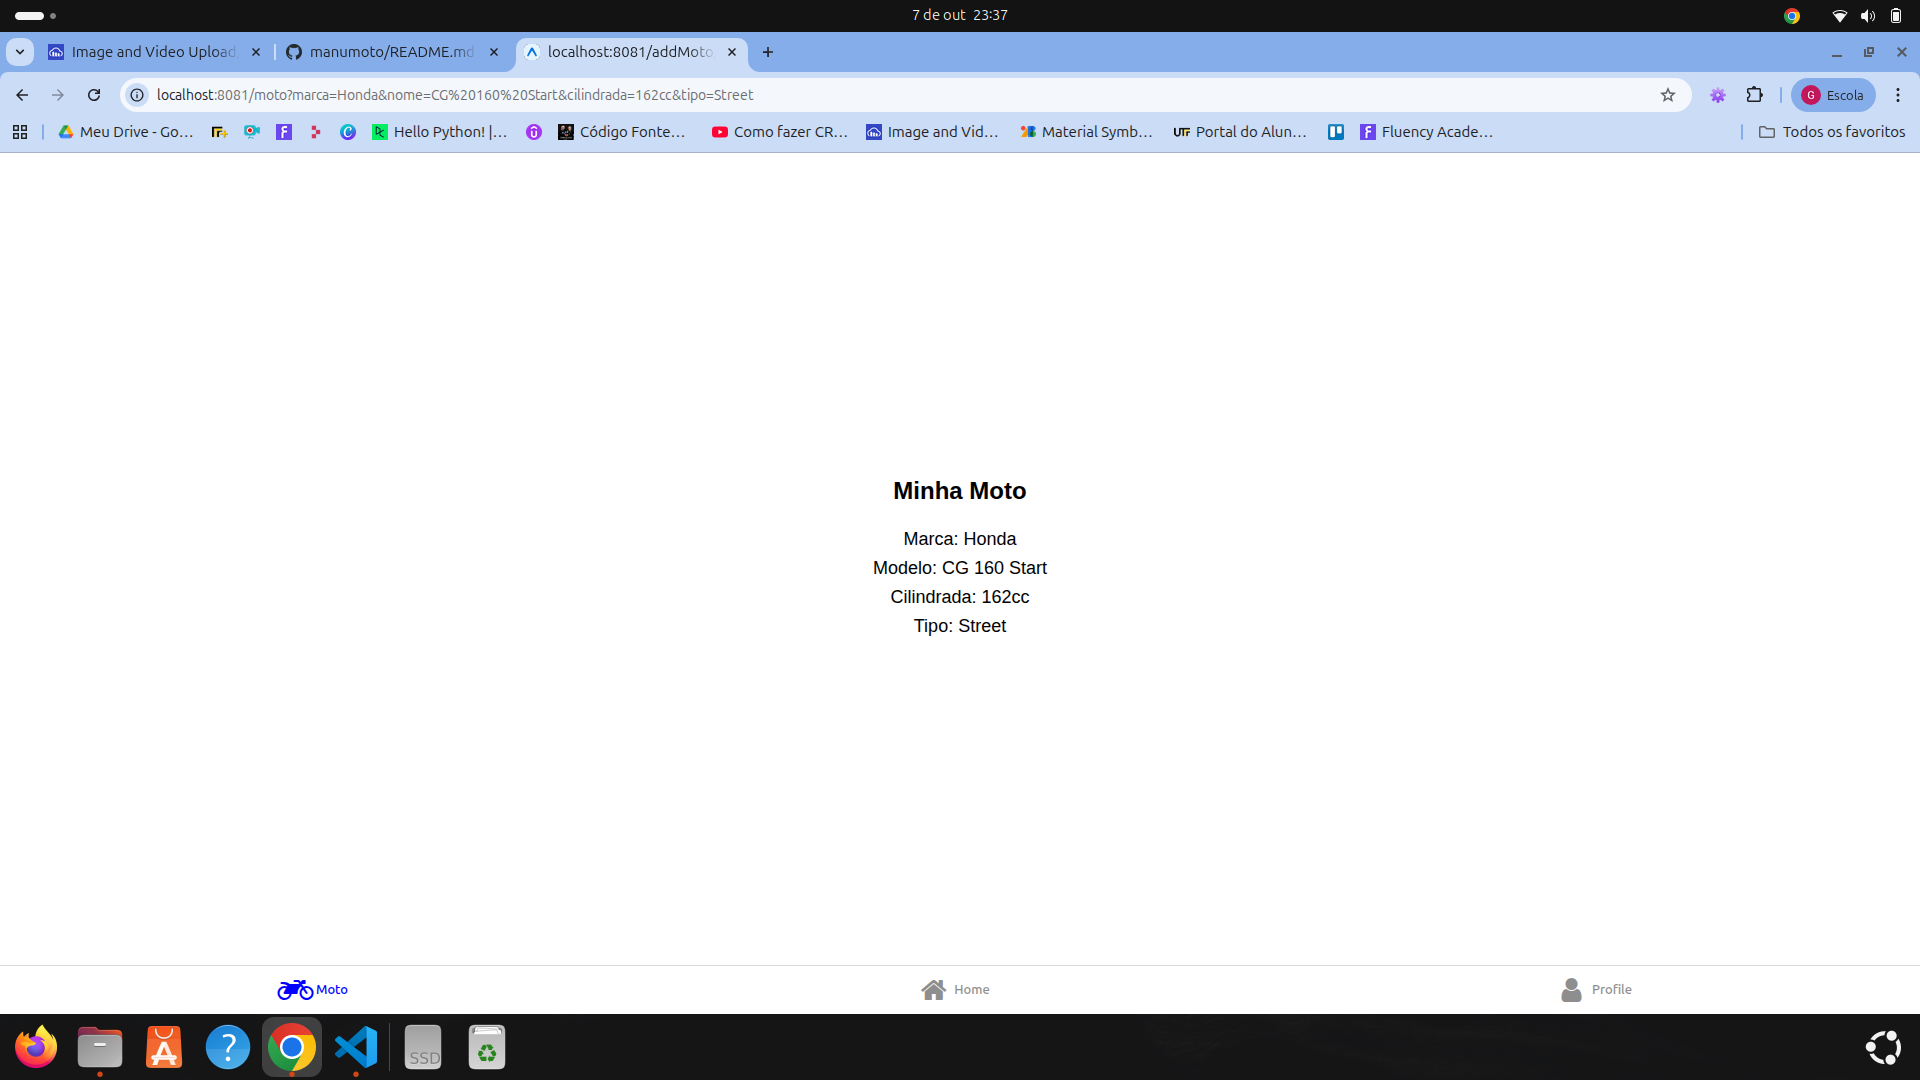
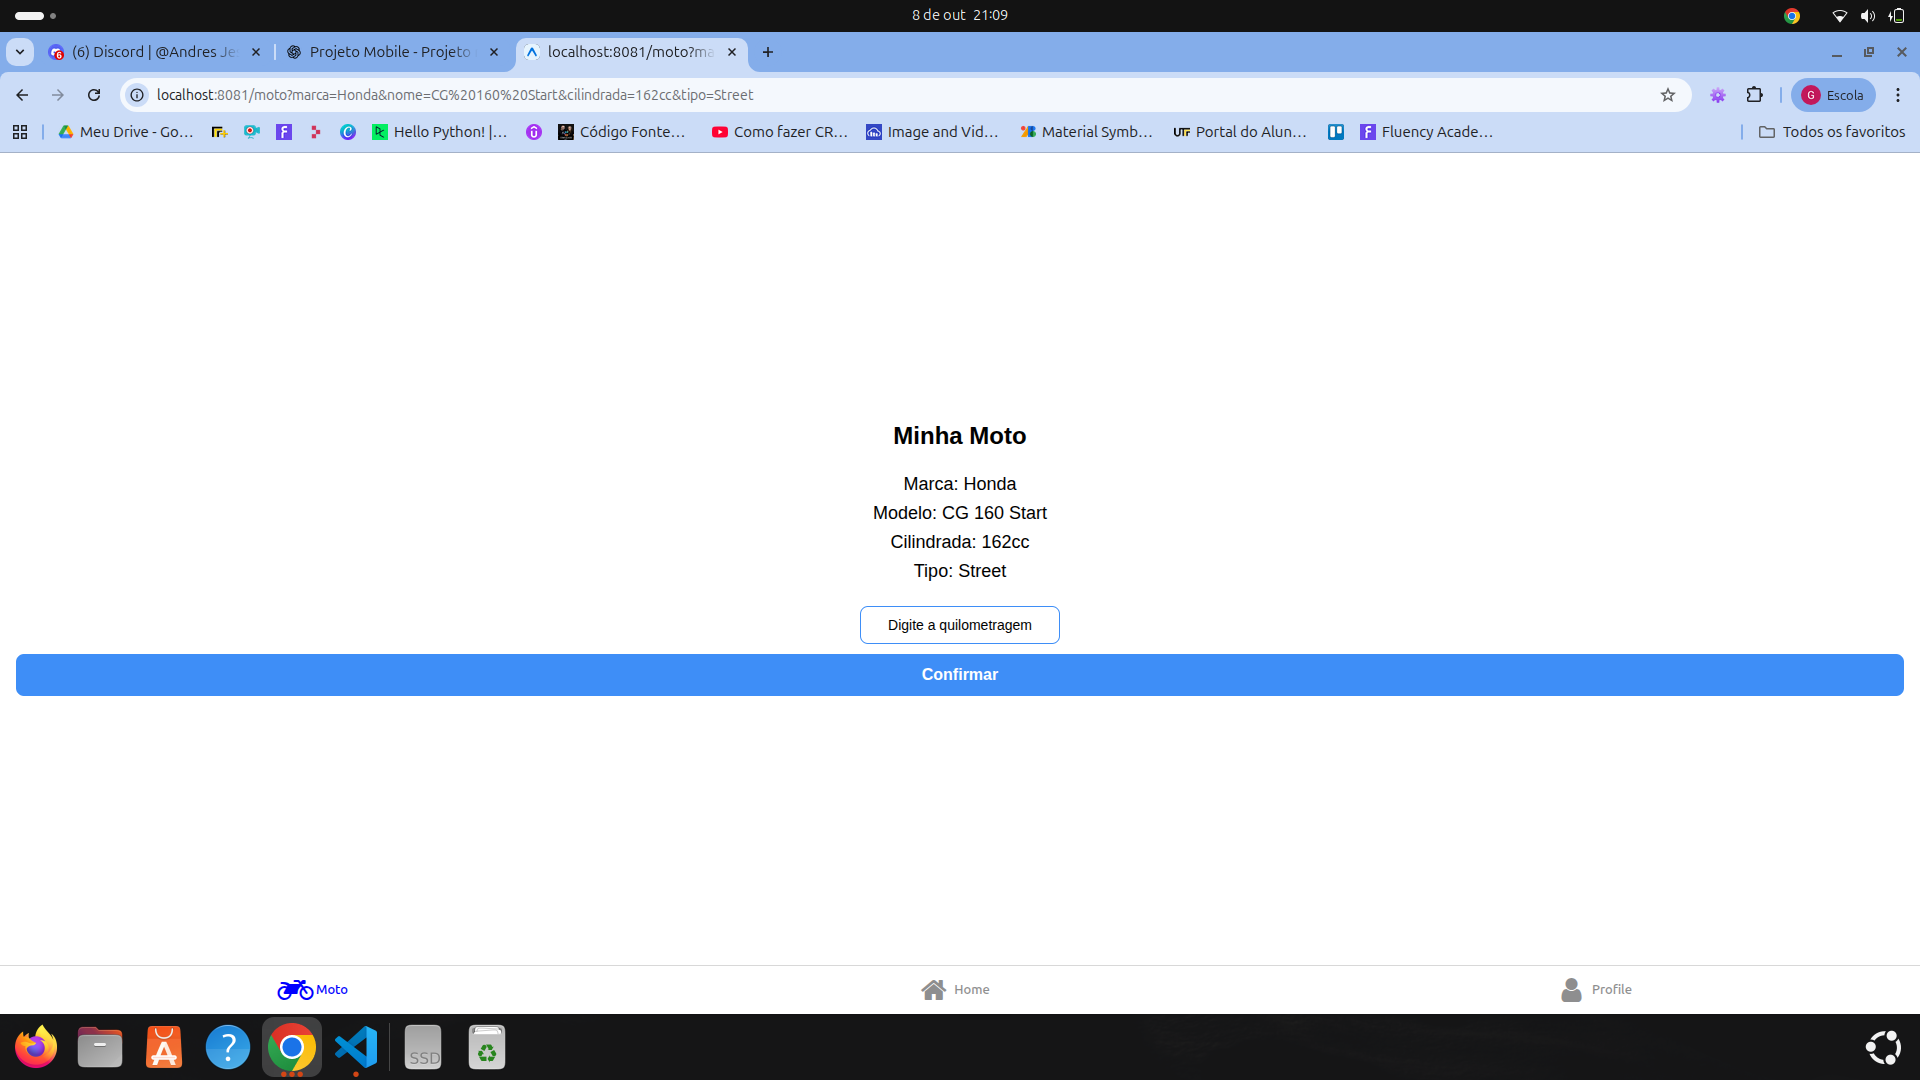
Adicionando o useEffect e useState

diff --git a/app/(auth)/moto.tsx b/app/(auth)/moto.tsx
@@ -1,9 +1,35 @@
 import { useLocalSearchParams } from "expo-router";
-import React from "react";
-import { StyleSheet, Text, View } from "react-native";
+import React, { useEffect, useState } from "react";
+import {
+  StyleSheet,
+  Text,
+  TextInput,
+  TouchableOpacity,
+  View,
+} from "react-native";
 
 export default function _screen() {
   const { marca, nome, cilindrada, tipo } = useLocalSearchParams();
+
+  const [inputQuilometragem, setInputQuilometragem] = useState<string>("");
+  const [quilometragem, setQuilometragem] = useState<number | null>(null);
+  const [alerta, setAlerta] = useState(false);
+
+  // useEffect observa o estado alerta
+  useEffect(() => {
+    if (alerta) {
+      const timer = setTimeout(() => setAlerta(false), 2000);
+      return () => clearTimeout(timer);
+    }
+  }, [alerta]);
+
+  const confirmarQuilometragem = () => {
+    if (inputQuilometragem) {
+      setQuilometragem(parseInt(inputQuilometragem));
+      setInputQuilometragem("");
+      setAlerta(true); // dispara o alerta
+    }
+  };
 
   return (
     <View style={styles.container}>
@@ -15,6 +41,34 @@ export default function _screen() {
           <Text style={styles.info}>Modelo: {nome}</Text>
           <Text style={styles.info}>Cilindrada: {cilindrada}</Text>
           <Text style={styles.info}>Tipo: {tipo}</Text>
+
+          {quilometragem === null ? (
+            <View style={{ marginTop: 20 }}>
+              <TextInput
+                style={styles.input}
+                placeholder="Digite a quilometragem"
+                value={inputQuilometragem}
+                onChangeText={setInputQuilometragem}
+                keyboardType="numeric"
+              />
+              <TouchableOpacity
+                style={styles.botao}
+                onPress={confirmarQuilometragem}
+              >
+                <Text style={styles.botaoTexto}>Confirmar</Text>
+              </TouchableOpacity>
+            </View>
+          ) : (
+            <Text style={[styles.info, { marginTop: 20 }]}>
+              Quilometragem informada: {quilometragem} km
+            </Text>
+          )}
+
+          {alerta && (
+            <View style={styles.alerta}>
+              <Text style={styles.alertaTexto}>Quilometragem salva!</Text>
+            </View>
+          )}
         </>
       ) : (
         <Text style={styles.empty}>Nenhuma moto cadastrada ainda</Text>
@@ -56,5 +110,40 @@ const styles = StyleSheet.create({
     alignItems: "center",
     justifyContent: "center",
     elevation: 2,
+  },
+  input: {
+    borderWidth: 1,
+    borderColor: "#3e8ef7",
+    borderRadius: 8,
+    padding: 10,
+    marginBottom: 10,
+    width: 200,
+    alignSelf: "center",
+    textAlign: "center",
+  },
+  botao: {
+    backgroundColor: "#3e8ef7",
+    paddingVertical: 12,
+    paddingHorizontal: 25,
+    borderRadius: 8,
+    alignItems: "center",
+  },
+  botaoTexto: {
+    color: "#fff",
+    fontWeight: "bold",
+    fontSize: 16,
+  },
+  alerta: {
+    position: "absolute",
+    bottom: 50,
+    alignSelf: "center",
+    backgroundColor: "#2196f3",
+    paddingVertical: 10,
+    paddingHorizontal: 20,
+    borderRadius: 8,
+  },
+  alertaTexto: {
+    color: "#fff",
+    fontWeight: "bold",
   },
 });
